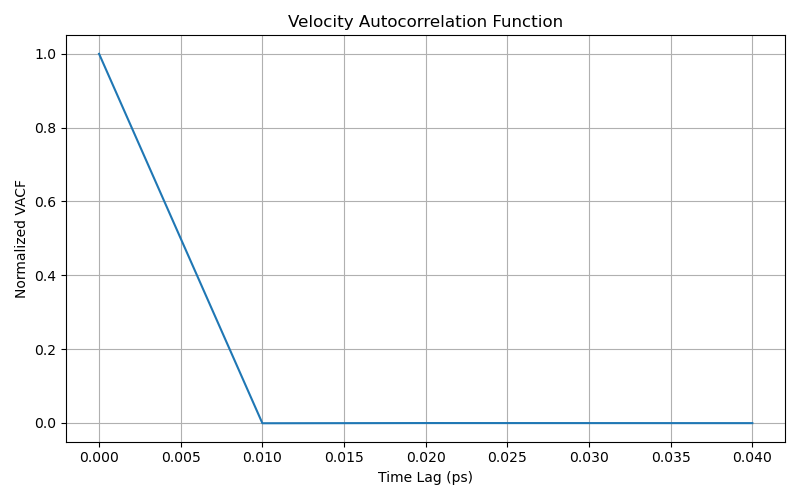
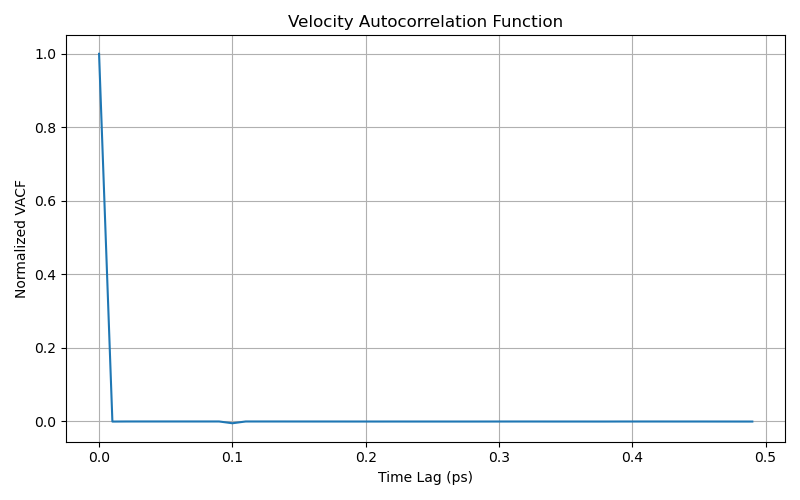
保存本地修改

diff --git a/energy_analysis.py b/energy_analysis.py
@@ -5,13 +5,11 @@ from tqdm import tqdm
 
 # === 常数与参数 ===
 kB = 1.380649e-23      # J/K
-T = 100                # 用于速度筛查，之所以选用100K，是因为我们模拟的温度范围没有超过100K
-                       # 如果100K下都异常，说明更低的温度下也异常，此时认为是边界效应导致的
+T = 100
 mass_amu = 12.0
 amu = 1.66053906660e-27
 mass_kg = mass_amu * amu
 
-# ---- 速度上限判据 ----
 v_rms = np.sqrt(3 * kB * T / mass_kg)
 v_max = 5 * v_rms   # m/s
 
@@ -30,42 +28,38 @@ with h5py.File("graphite_simulation.h5", "r") as f:
 # === 解包 ===
 particle_ids = pos_data[:, 0].astype(int)
 positions = pos_data[:, 1:4]     # Å
-times = pos_data[:, 4]           # s
+times_pos = pos_data[:, 4]       # s
 velocities = vel_data[:, 1:4]    # m/s
-vel_times = vel_data[:, 4]       # s
+times_vel = vel_data[:, 4]       # s
 
-# === 基本信息 ===
-unique_times = np.unique(times)
+
+unique_times_pos = np.unique(times_pos)
+unique_times_vel = np.unique(times_vel)
 unique_ids = np.unique(particle_ids)
 N_particles = len(unique_ids)
-N_steps = len(unique_times)
+N_steps_pos = len(unique_times_pos)
+N_steps_vel = len(unique_times_vel)
 
-# === 重塑位置、速度数组 ===
-positions_reshaped = positions.reshape((N_steps, N_particles, 3))    # Å
-velocities_reshaped = velocities.reshape((N_steps, N_particles, 3))  # m/s
 
-# === 能量存储 ===
+positions_reshaped = positions.reshape((N_steps_pos, N_particles, 3))    # Å
+velocities_reshaped = velocities.reshape((N_steps_vel, N_particles, 3))  # m/s
+# 计算动能
 kinetic_energy_list = []
-potential_energy_list = []
-total_energy_list = []
-
-for step in tqdm(range(N_steps)):
-    pos = positions_reshaped[step]      # Å
-    vel = velocities_reshaped[step]     # m/s
-
-    # ---- 超速原子检测 ----
+for step in tqdm(range(N_steps_vel)):
+    vel = velocities_reshaped[step]
     v_magnitudes = np.linalg.norm(vel, axis=1)
-    bad_atoms = np.where(v_magnitudes > v_max)[0]
-        
     valid_mask = v_magnitudes <= v_max
     valid_velocities = vel[valid_mask]
-    # ---- 动能 ----
     valid_speeds_sq = np.sum(valid_velocities**2, axis=1)
-    N_valid = np.count_nonzero(valid_mask)  # 有效粒子数
+    N_valid = np.count_nonzero(valid_mask)
     scaling_factor = N_particles / N_valid if N_valid > 0 else 0
     kinetic_energy = (0.5 * mass_kg * np.sum(valid_speeds_sq) * scaling_factor / eV_to_J)
+    kinetic_energy_list.append(kinetic_energy)
 
-    # ---- 势能 ----
+# 计算势能
+potential_energy_list = []
+for step in tqdm(range(N_steps_pos)):
+    pos = positions_reshaped[step]
     potential_energy = 0.0
     for i in range(N_particles):
         for j in range(i + 1, N_particles):
@@ -75,33 +69,31 @@ for step in tqdm(range(N_steps)):
                 r6 = (sigma / r) ** 6
                 r12 = r6 ** 2
                 potential_energy += 4 * epsilon * (r12 - r6)
-
-    # ---- 存储 ----
-    kinetic_energy_list.append(kinetic_energy)
     potential_energy_list.append(potential_energy)
-    total_energy_list.append(kinetic_energy + potential_energy)
 
-# === 画图 ===
-# === 画图 ===
+
+times_vel_ps = unique_times_vel * 1e12  # s → ps
+times_pos_ps = unique_times_pos * 1e12  # s → ps
+
+kinetic_energy_interp = np.interp(times_pos_ps, times_vel_ps, kinetic_energy_list)
+
+
+total_energy_list = kinetic_energy_interp + np.array(potential_energy_list)
+
 if doplot:
-    times_ps = unique_times * 1e12  # s -> ps
-
     fig, axs = plt.subplots(3, 1, figsize=(8, 10), sharex=True)
 
-    # --- 子图1：动能 ---
-    axs[0].plot(times_ps, kinetic_energy_list, color='tab:blue')
+    axs[0].plot(times_pos_ps, kinetic_energy_interp, color='tab:blue')
     axs[0].set_ylabel("Kinetic Energy (eV)")
     axs[0].set_title("Kinetic Energy vs Time")
     axs[0].grid(True)
 
-    # --- 子图2：势能 ---
-    axs[1].plot(times_ps, potential_energy_list, color='tab:orange')
+    axs[1].plot(times_pos_ps, potential_energy_list, color='tab:orange')
     axs[1].set_ylabel("Potential Energy (eV)")
     axs[1].set_title("Potential Energy vs Time")
     axs[1].grid(True)
 
-    # --- 子图3：总能 ---
-    axs[2].plot(times_ps, total_energy_list, color='tab:green')
+    axs[2].plot(times_pos_ps, total_energy_list, color='tab:green')
     axs[2].set_xlabel("Time (ps)")
     axs[2].set_ylabel("Total Energy (eV)")
     axs[2].set_title("Total Energy vs Time")

diff --git a/time_relation.py b/time_relation.py
@@ -1,14 +1,24 @@
 import h5py
 import numpy as np
 import matplotlib.pyplot as plt
+from tqdm import tqdm
 
-# === 参数设置 ===
+# === 常数与参数 ===
+kB = 1.380649e-23  # J/K
+T = 100            # K
+mass_amu = 12.0
+amu = 1.66053906660e-27
+mass_kg = mass_amu * amu
+
+v_rms = np.sqrt(3 * kB * T / mass_kg)
+v_max = 5 * v_rms   # m/s
+
+# === 读取数据 ===
 with h5py.File("graphite_simulation.h5", "r") as f:
     vel_data = f["velocity_traj"][:]  # [id, vx, vy, vz, t]
 
-
 particle_ids = vel_data[:, 0].astype(int)
-velocities = vel_data[:, 1:4]   
+velocities = vel_data[:, 1:4]
 times = vel_data[:, 4]
 
 unique_times = np.unique(times)
@@ -16,35 +26,44 @@ unique_ids = np.unique(particle_ids)
 N_steps = len(unique_times)
 N_particles = len(unique_ids)
 
-
 velocities_reshaped = velocities.reshape((N_steps, N_particles, 3))
 
-
+# === VACF计算（剔除异常速度） ===
 max_lag = N_steps // 2
 vacf = np.zeros(max_lag)
 
-for lag in range(max_lag):
+for lag in tqdm(range(max_lag)):
     dot_products = []
     for t in range(N_steps - lag):
         v_t = velocities_reshaped[t]
         v_t_lag = velocities_reshaped[t + lag]
-        dots = np.einsum('ij,ij->i', v_t, v_t_lag)  # 每个粒子 v·v
-        dot_products.append(np.mean(dots))
+
+        # --- 剔除任意时刻超速的粒子 ---
+        v1_mag = np.linalg.norm(v_t, axis=1)
+        v2_mag = np.linalg.norm(v_t_lag, axis=1)
+        valid_mask = (v1_mag <= v_max) & (v2_mag <= v_max)
+
+        if np.count_nonzero(valid_mask) == 0:
+            dot_products.append(0.0)
+        else:
+            dots = np.einsum('ij,ij->i', v_t[valid_mask], v_t_lag[valid_mask])
+            dot_products.append(np.mean(dots))
+
     vacf[lag] = np.mean(dot_products)
 
-
-vacf /= vacf[0]
+# === 归一化 ===
+vacf /= vacf[0] if vacf[0] != 0 else 1.0
 
 # === 绘图 ===
-time_step = unique_times[1] - unique_times[0]  # 假设等间隔
+time_step = unique_times[1] - unique_times[0]  # s
 time_ps = np.arange(max_lag) * time_step * 1e12  # ps
 
 plt.figure(figsize=(8, 5))
 plt.plot(time_ps, vacf)
 plt.xlabel("Time Lag (ps)")
 plt.ylabel("Normalized VACF")
-plt.title("Velocity Autocorrelation Function")
+plt.title("Velocity Autocorrelation Function (filtered)")
 plt.grid(True)
 plt.tight_layout()
-plt.savefig("vacf_plot.png")
+plt.savefig("vacf_filtered.png")
 plt.show()

diff --git a/LJ.py b/LJ.py
@@ -14,7 +14,11 @@ a6 = np.array([0.0, 0.0, 7.0])
 nx, ny, nz = 6, 6, 4
 # 模拟参数
 dt = 1e-14 # 10 fs
+<<<<<<< HEAD
 steps = 50
+=======
+steps = 100
+>>>>>>> e4dae48 (保存本地修改)
 # LJ模拟参数
 epsilon=0.0026
 sigma=1.26
@@ -341,7 +345,7 @@ with h5py.File("graphite_simulation.h5", "w") as h5file:
         velocity = (new_positions-current_positions)*angstrom / dt  
         new_positions = boundary_conditions(new_positions, box_size)
         time_value = (step + 1) * dt  #step是从0开始的，所以需要加1
-        
+        time_value_2 = (step + 0.5) * dt #这样的计算方法速度和位移不是同步的
         # 写入数据：仅 xyz 坐标
         step_data = np.hstack([
             particle_ids.reshape(-1, 1),
@@ -354,7 +358,7 @@ with h5py.File("graphite_simulation.h5", "w") as h5file:
         step_velocity_data = np.hstack([
             particle_ids.reshape(-1, 1),
             velocity[:, :3],
-            np.full((N_particles, 1), time_value)
+            np.full((N_particles, 1), time_value_2)
         ])
         vel_dataset[step * N_particles : (step + 1) * N_particles] = step_velocity_data
         if writetext:
